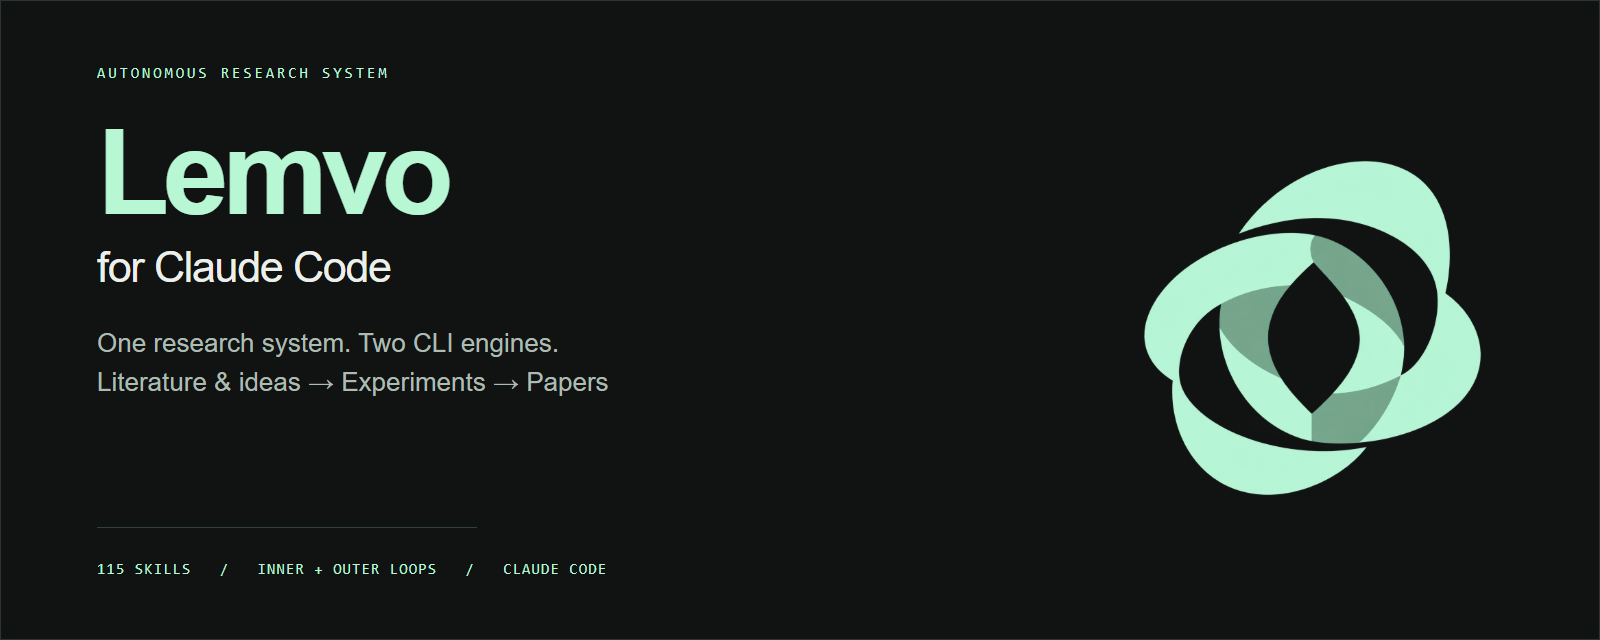
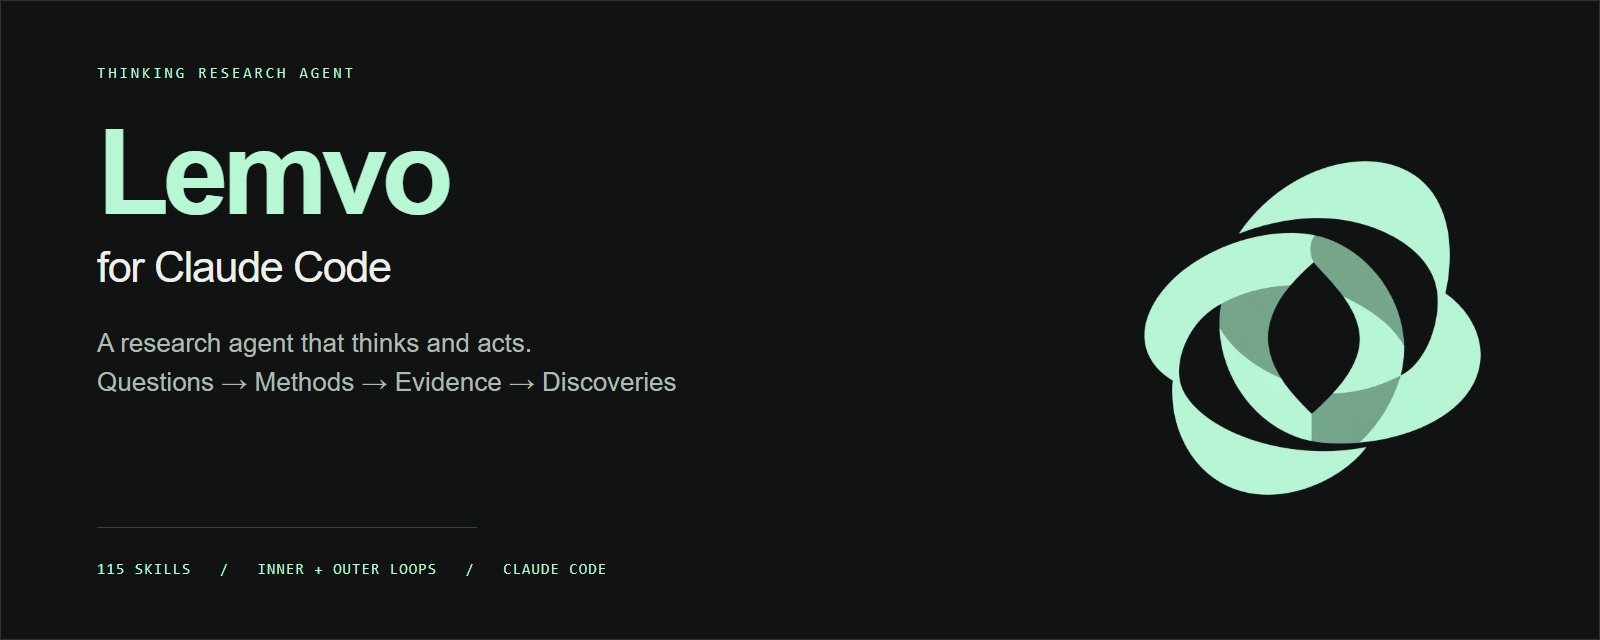
Position Lemvo as a thinking research agent

Changed region(s): [[0.0625, 0.5, 0.4375, 0.625], [0.0625, 0.0938, 0.25, 0.125]]

diff --git a/README.md b/README.md
@@ -1,52 +1,57 @@
-<p align="center"><a href="https://yichen-zju.github.io/claude-for-research/"><img src="assets/research-cover.png?v=lemvo-primary-2" alt="Lemvo for Claude Code — One research system. Two CLI engines." width="100%"></a></p>
+<p align="center"><a href="https://yichen-zju.github.io/claude-for-research/"><img src="assets/research-cover.png?v=lemvo-agent-3" alt="Lemvo for Claude Code — A research agent that thinks and acts." width="100%"></a></p>
 
 <h1 align="center">Lemvo for Claude Code</h1>
-<p align="center"><strong>一套自主科研体系，两种 CLI 引擎。<br>One research system. Two CLI engines.</strong><br>让想法，走到发现。 / From an idea. To a discovery.</p>
+<p align="center"><strong>会思考、会行动的科研 Agent。<br>A research agent that thinks and acts.</strong><br>一套科研体系，两种 CLI 引擎。 / One research system. Two CLI engines.</p>
 <p align="center"><a href="https://yichen-zju.github.io/claude-for-research/?lang=zh">Lemvo 中文主页</a> · <a href="https://yichen-zju.github.io/claude-for-research/?lang=en">Lemvo in English</a> · <a href="#quickstart">Quickstart</a> · <a href="https://github.com/Yichen-ZJU/codex-for-research">Lemvo for Codex</a></p>
 <p align="center"><img src="https://img.shields.io/badge/skills-115-B7F7D4?style=flat-square&amp;labelColor=101312" alt="115 skills"> <img src="https://img.shields.io/badge/engine-Claude%20Code-B7F7D4?style=flat-square&amp;labelColor=101312" alt="Claude Code"> <img src="https://img.shields.io/badge/workflow-research%20%E2%86%92%20experiments%20%E2%86%92%20papers-B7F7D4?style=flat-square&amp;labelColor=101312" alt="Research to experiments to papers"></p>
 
-**Lemvo** 是运行在 Claude Code 与 Codex CLI 上的自主科研体系。**Lemvo for Claude Code** 把 Claude Code 变成科研工作台：从深广度文献调研与 Idea 构思，到无人值守的模型改进试验，再到论文写作与评审，由 **Research Orchestrator** 协调全程，**115 个科研技能**提供工作流与领域方法。
+**Lemvo** 是运行在 Claude Code 与 Codex CLI 上的自主科研 Agent。**Lemvo for Claude Code** 从研究问题出发：读文献、提出构想、选择实验路线、构建和改进方法，再结合结果解释现象、修订假设，组织论文与评审。**Research Orchestrator** 协调这套思考与行动的双循环，**115 个科研技能**提供工作流与领域方法。
 
 选择 **Claude Code** 或 **Codex CLI**，保留同一套 Lemvo 科研流程。两个仓库各含 **115 个技能，技能名称集合一致**；工具调用与运行机制分别适配各自引擎。
 
-**Lemvo** brings one autonomous research system to **Claude Code** and **Codex CLI**. **Lemvo for Claude Code** equips Claude Code with broad and deep literature research, idea development, unattended model-improvement experiments, and paper writing and review. **Research Orchestrator** coordinates the whole journey, supported by **115 research skills** and nested experiment and reflection loops. The same skill catalogue runs on Codex CLI, with engine-specific tool adaptations.
+**Lemvo** is an autonomous research agent for **Claude Code** and **Codex CLI**. **Lemvo for Claude Code** starts with a research question: investigate the literature, develop ideas, choose an experiment route, build and improve methods, then interpret results, revise hypotheses, and shape the paper. **Research Orchestrator** coordinates this cycle of thinking and acting, supported by **115 research skills**. The same skill catalogue runs on Codex CLI, with engine-specific tool adaptations.
 
 ## 一套流程，两层循环 / One workflow, two loops
 
 ```mermaid
 flowchart TD
   Q[研究问题 / Research question] --> L[文献与构思 / Literature and ideas]
-  L --> F[Experiment Forge: task package]
+  L --> E{选择实验路线 / Choose a route}
+  E -->|需要自驱任务包 / Package needed| F[Experiment Forge: task package]
+  E -->|已有可迭代代码 / Existing code| M
   subgraph INNER[内循环 / Inner experiment loop]
-    M[改模型 / Modify] --> T[固定评估 / Measure]
+    M[构建或改进方法 / Build or improve] --> T[运行与测量 / Run and measure]
     T --> K[保留或回滚 / Keep or revert]
     K --> M
   end
   F --> M
   K --> R[外循环反思 / Reflect]
   R --> D{DEEPEN / BROADEN / PIVOT / CONCLUDE}
-  D -->|继续研究 / Continue| L
+  D -->|改方法、再验证 / Revise and retest| M
+  D -->|调研与新假设 / Investigate| L
   D -->|收尾 / Conclude| W[图表、论文与评审 / Figures, paper and review]
 ```
 
-**内循环优化模型，外循环判断方向。** Autoresearch 在任务包的范围与预算内反复修改、测量、保留或回滚；Orchestrator 汇总实验与文献证据，决定深入、拓宽、转向或收尾，让下一轮试验服务于研究问题。
+**内循环检验与迭代方法，外循环理解结果并推进研究。** Orchestrator 根据问题与项目状态安排实验、识别结果中的模式，决定下一步深挖机制、改进方法、拓宽问题或收尾。模型优化时，Autoresearch 在约定范围与预算内执行改→测→留/滚；机制探索时，实验用于检验假设、解释现象。每一轮都回到研究问题与证据。
 
-**The inner loop improves the model; the outer loop steers the research.** Autoresearch iterates within the task package's scope and budget. Orchestrator reflects on experimental and literature evidence and chooses whether to deepen, broaden, pivot, or conclude.
+**The inner loop tests and iterates methods; the outer loop makes sense of the results and steers the research.** Orchestrator chooses experiments for the question and project state, connects findings, and decides whether to investigate a mechanism, revise a method, broaden the question, or conclude. For model optimization, Autoresearch runs modify→measure→keep/revert within the agreed scope and budget. For discovery, experiments test hypotheses and explain phenomena.
 
 ## 从调研到论文 / From evidence to a paper
 
 | 阶段 / Stage | 能力 / Capability | 代表技能 / Skills |
 |---|---|---|
 | 调研与构思 / Research & ideation | 广度扫描、全文核验、跨领域构思、选题评价 / Map the field, verify full text, generate and evaluate ideas | `deep-research`, `literature-review`, `brainstorming-research-ideas`, `creative-thinking-for-research`, `idea-evaluator` |
-| 任务包与优化 / Experiment packages & optimization | 锁定评估、开放模型文件、设定目标与预算；自主运行改→测→留/滚 / Fix evaluation, expose editable model files, set goals and budgets; run modify→measure→keep/revert | `experiment-forge`, `autoresearch`, `run-experiment`, `experiment-queue`, `experiment-watchdog` |
+| 实验与方法迭代 / Experiments & method development | 选择路线、设计验证、复现基线、迭代方法；按需构造自驱任务包 / Choose a route, design tests, reproduce baselines and iterate methods; package unattended work when needed | `experiment-forge`, `autoresearch`, `run-experiment`, `experiment-queue`, `experiment-watchdog` |
 | 写作与评审 / Writing & review | 叙事规划、科研图表、论文起草、引用核验、对抗性评审 / Plan the narrative, build figures, draft, verify citations and review | `paper-production`, `paper-writing`, `paper-narrative`, `academic-plotting`, `research-review`, `paper-code-audit` |
-| 全程协调 / Orchestration | 维护研究状态，协调内外循环，推动成果收尾 / Maintain research state, coordinate both loops and assemble deliverables | `research-orchestrator` |
+| 全程协调 / Orchestration | 维护研究状态、累计预算与发现；解释结果，安排下一轮行动，推动成果收尾 / Maintain state, cumulative budgets and findings; interpret results, choose the next action and assemble deliverables | `research-orchestrator` |
 
-### Experiment Forge → Autoresearch
+### 自主实验：直接迭代或锻造任务包 / Direct iteration or a task package
 
-Forge 将想法锻造成 **Karpathy 式任务包**：`program.md` 说明目标、预算和边界，固定数据与评估入口，明确可修改的模型或训练文件，准备依赖与结果记录。Autoresearch 接过任务包，在给定算力与时间内自主探索模型结构、训练策略等改动，以准确率、损失或吞吐等指定指标指导保留与回滚。
+Orchestrator 根据任务选择起跑方式：已有可迭代代码库时，**Autoresearch 可以直接上手**；需要可交付、可跨机接力的无人值守实验包时，**Experiment Forge** 将构想锻造成 **Karpathy 式任务包**。其中 `program.md` 说明目标、预算和边界，固定数据与评估入口，明确可修改的模型或训练文件，准备依赖与结果记录。Autoresearch 在给定算力与时间内探索模型结构、训练策略等改动，以准确率、损失或吞吐等指定指标指导保留与回滚。
 
-Forge turns an idea into a **Karpathy-style task package**: a `program.md` brief, a fixed evaluation, editable model or training files, dependencies, and a result ledger. Autoresearch executes the unattended improvement loop, using the chosen metric to guide which changes to keep or revert.
+Orchestrator chooses how to start. **Autoresearch can work directly in an existing codebase**. When the project needs a transferable, unattended experiment package, **Experiment Forge** builds a **Karpathy-style task package**: a `program.md` brief, a fixed evaluation, editable model or training files, dependencies, and a result ledger. Autoresearch explores model and training changes within the compute and time budget, using the chosen metric to guide what to keep or revert.
+
+**SOTA 复现改进**：从可信论文与官方实现选择基线，限时复现，再直接在现有代码上迭代，比较已冻结的基线。 / **SOTA reproduction and improvement**: choose a baseline from credible papers and official implementations, bound the reproduction effort, then iterate in that codebase against the frozen baseline.
 
 ### ArXiv MCP · 全文级证据 / Full-text evidence
 
@@ -82,9 +87,9 @@ claude mcp add --scope user arxiv -- "$HOME/.local/bin/arxiv-mcp-server"
 
 安装后开启新会话，用一个明确的问题开始，例如： / Start a new session with a concrete research question:
 
-> 用 research-orchestrator 研究怎样改善手写数字分类器。先调研与构思，再用 experiment-forge 构造任务包，在固定评估下运行 autoresearch；结合结果反思方向，最后整理图表、实验报告和论文草稿。
+> 用 research-orchestrator 研究怎样改善手写数字分类器，以及改进为何有效。先调研与构思，选择合适的基线和实验路线：已有代码可直接运行 autoresearch，需要自驱任务包时再用 experiment-forge。结合结果改进方法、检验解释，最后整理代码、图表、研究发现和论文草稿。
 
-> Use research-orchestrator to investigate a handwritten-digit classifier. Research and propose ideas, forge a task package, run autoresearch against a fixed evaluation, reflect on the direction, and assemble figures, an experiment report, and a paper draft.
+> Use research-orchestrator to improve a handwritten-digit classifier and investigate why the changes work. Research the literature, develop ideas, and choose a baseline and experiment route: run autoresearch directly on existing code, or use experiment-forge when a task package is needed. Iterate methods, test explanations, and assemble code, figures, findings, and a paper draft.
 
 [在主页观看内外双循环动画 / Watch the nested-loop workflow →](https://yichen-zju.github.io/claude-for-research/#walkthrough)
 
